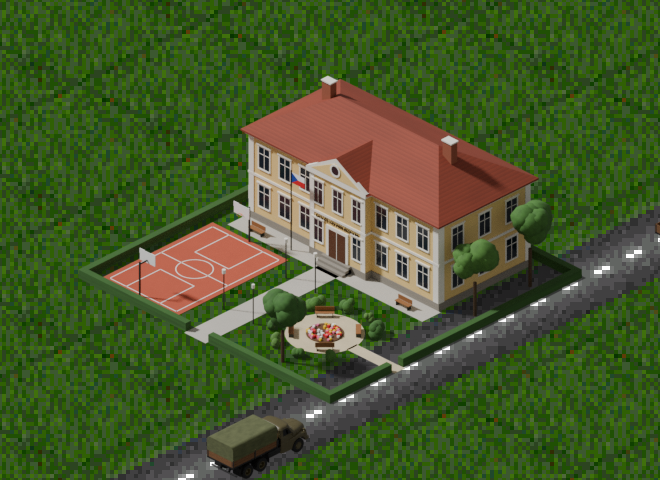
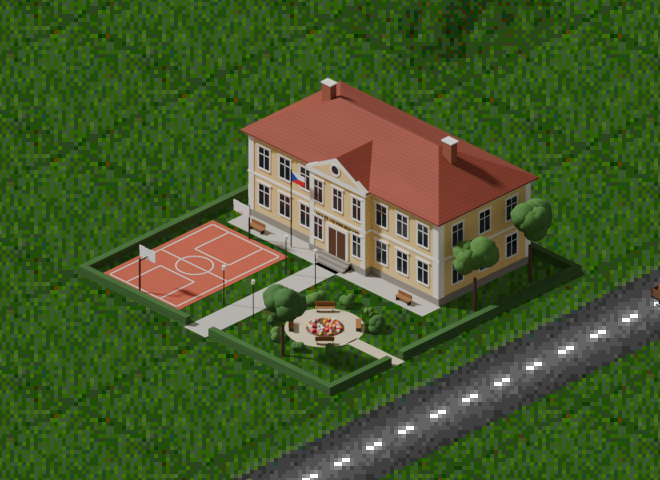
Nahledy ve hre na spravnem miste, odpoved pro hru
Zeme v okruhu zkusebni hry lezi ve vysce 16 a nahledy s tim nepocitaly,
budovy byly o pul policka niz (u automatu krovi na silnici). Novy
hra/nahled_ve_hre.py pocita s vyskou zeme, stahne obrazek na policko hry
256 x 124 a posune severni roh o 4 px jako hra. Nahledy gymnazia,
automatu a sochy jsou nove, fotka okruhu je v repu. Odpoved na zpravu od
hry: socha po stazeni nepresahuje, objekty prijdou ve tvaru hry.

Claude-Session: https://claude.ai/code/session_01P6zYdmMEQjTTZJyV6Qb8Ch

diff --git a/hra/nahled_ve_hre.py b/hra/nahled_ve_hre.py
@@ -1,0 +1,79 @@
+#!/usr/bin/env python3
+# -*- coding: utf-8 -*-
+# Nahled budov ve fotce ze zkusebni hry (silnicni okruh s Tatrami, priblizeni 4x) s polohou jako ve hre:
+# - zeme v okruhu lezi ve vysce 16 (dve urovne, auta tam maji z 16), dlazdice je proto o 4 * 16 = 64 px vys, nez
+#   by byla dole. Tuhle vysku jsem driv vynechaval a vsechny nahledy byly o pul policka niz (u automatu pak krovi
+#   lezlo na silnici, i kdyz ve hre nepresahuje).
+# - policko ve hre ma 256 x 124 px (render 256 x 128), obrazek se proto svisle stahne na 124/128 jako ve hre.
+# - severni roh rovne dlazdice lezi ve hre o 4 px vpravo od hranice pixelu, kam ho klade render.
+# Posledni dve veci podle zpravy od hry (zarovnani-budov/ZPRAVA-OD-HRY.md, skript hry openttd_gymnazium.py).
+#
+#   python3 nahled_ve_hre.py <vystup.png> <obrazek.png>@<x>,<y>[=popisek] ... [--vyrez L,T,R,B] [--zvetsit N]
+#
+# x, y je severni dlazdice budovy. Rohy pozemku se ctou z JSONu vedle obrazku; "stazeny": true znamena, ze obrazek
+# uz ma vysku hry a nestahuje se. Popisek se napise pod jizni roh pozemku. Vyrez je v pixelech fotky od severniho
+# rohu prvni budovy (vychozi -330,-150,330,330), zvetseni bez vyhlazovani (vychozi 2).
+# Dlazdice v okruhu: silnice vede po y = 12 a y = 18 (x 40 az 51) a po x = 40 a x = 51 (y 12 az 18), uvnitr je
+# trava; napr. (44,17) je primo u silnice, (45,16) o policko dal.
+import json, os, sys
+from PIL import Image, ImageDraw, ImageFont
+
+TU = os.path.dirname(os.path.abspath(__file__))
+FOTKA = os.path.join(TU, "fotka_okruh_v11.png")       # v3s_okruh_02.png ze zkousky v11, pohled vlevo -5440 nahore 2840
+VLEVO, NAHORE, Z_ZEME = -5440, 2840, 16
+SEVER_POSUN = 4
+RENDER_VYSKA, HRA_VYSKA = 128, 124
+PISMO = "/usr/share/fonts/truetype/dejavu/DejaVuSans-Bold.ttf"
+
+
+def sever_dlazdice(x, y):
+    """pixel fotky, kde lezi severni roh dlazdice (x, y) ve hre"""
+    return 128 * (y - x) - VLEVO + SEVER_POSUN, 64 * (x + y) - 4 * Z_ZEME - NAHORE
+
+
+def nacti(cesta):
+    """obrazek ve vysce hry a rohy pozemku na nem"""
+    im = Image.open(cesta).convert("RGBA")
+    info = json.load(open(os.path.splitext(cesta)[0] + ".json"))
+    rohy = {k: tuple(v) for k, v in info["rohy"].items()}
+    if not info.get("stazeny"):
+        k = HRA_VYSKA / RENDER_VYSKA
+        im = im.resize((im.width, round(im.height * k)), Image.LANCZOS)
+        rohy = {n: (v[0], v[1] * k) for n, v in rohy.items()}
+    return im, rohy
+
+
+def main(argv):
+    vystup, budovy, vyrez, zvetsit = argv[0], [], (-330, -150, 330, 330), 2
+    i = 1
+    while i < len(argv):
+        if argv[i] == "--vyrez":
+            vyrez = tuple(int(v) for v in argv[i + 1].split(",")); i += 2; continue
+        if argv[i] == "--zvetsit":
+            zvetsit = int(argv[i + 1]); i += 2; continue
+        cesta, _, zbytek = argv[i].partition("@")
+        misto, _, popisek = zbytek.partition("=")
+        budovy.append((cesta, tuple(int(v) for v in misto.split(",")), popisek)); i += 1
+    fotka = Image.open(FOTKA).convert("RGBA")
+    popisky = []
+    for cesta, (x, y), popisek in budovy:
+        im, rohy = nacti(cesta)
+        sx, sy = sever_dlazdice(x, y)
+        ox, oy = round(sx - rohy["sever"][0]), round(sy - rohy["sever"][1])
+        fotka.alpha_composite(im, (ox, oy))
+        if popisek:
+            popisky.append((popisek, ox + rohy["jih"][0], oy + rohy["jih"][1]))
+    x0, y0 = sever_dlazdice(*budovy[0][1])
+    L, T = x0 + vyrez[0], y0 + vyrez[1]
+    v = fotka.crop((L, T, x0 + vyrez[2], y0 + vyrez[3])).convert("RGB")
+    v = v.resize((v.width * zvetsit, v.height * zvetsit), Image.NEAREST)
+    d = ImageDraw.Draw(v); f = ImageFont.truetype(PISMO, 13 * zvetsit)
+    for text, px, py in popisky:
+        X, Y = (px - L) * zvetsit, (py - T) * zvetsit + 15 * zvetsit
+        d.text((X + 2, Y + 2), text, font=f, fill=(0, 0, 0), anchor="mm"); d.text((X, Y), text, font=f, fill=(255, 255, 255), anchor="mm")
+    v.save(vystup)
+    print(vystup, v.size)
+
+
+if __name__ == "__main__":
+    main(sys.argv[1:])

diff --git a/hra/README.md b/hra/README.md
@@ -87,6 +87,26 @@ Bez obrazu, jen výpisy (třeba `testv3s`), stačí `./openttd -vnull:ticks=200 
 a v `game_start.scr` příkaz, na konci `quit` není potřeba.
 `-G <číslo>` dá pokaždé stejnou mapu.
 
+## Náhled budov ve fotce ze hry
+
+`nahled_ve_hre.py` vloží obrázky budov do fotky okruhu ze zkoušky v11 (`fotka_okruh_v11.png`, přiblížení 4×)
+tam, kam by je postavila hra:
+
+```bash
+python3 hra/nahled_ve_hre.py socha/nahled_ve_hre.png "socha/socha_kamen_zin4.png@45,16=z kamene" "socha/socha_bronz_zin4.png@43,16=bronzová" --vyrez -202,-174,458,236
+```
+
+`@x,y` je severní dlaždice budovy, rohy pozemku se berou z JSONu vedle obrázku. Tři věci, bez kterých náhled lže:
+
+- **Země v okruhu leží ve výšce 16** (auta tam mají `z 16`), dlaždice je proto o 64 px výš. Do 1. 10. jsem to
+  vynechával a všechny náhledy (gymnázium, automat, socha) byly o půl políčka níž; u automatu pak křoví lezlo na
+  silnici, ve hře ne.
+- **Políčko ve hře má 256 × 124 px**, ne 256 × 128 jako render: obrázek se svisle stáhne na 124/128.
+- **Severní roh dlaždice leží ve hře o 4 px vpravo** od hranice pixelu, kam ho klade render.
+
+Poslední dvě věci jsou ze zprávy od hry (`zarovnani-budov/ZPRAVA-OD-HRY.md`). Silnice okruhu vede po y = 12 a 18
+(x 40 až 51) a po x = 40 a 51 (y 12 až 18), uvnitř je tráva; (44,17) je hned u silnice.
+
 ## Jak přeložit znova
 
 ```bash

diff --git a/hra/zarovnani-budov/ODPOVED-PRO-HRU.md b/hra/zarovnani-budov/ODPOVED-PRO-HRU.md
@@ -1,0 +1,14 @@
+# Odpověď pro hru (1. 10.)
+
+Díky, zpráva je jasná.
+
+- **JSON s rohy pozemku** budu dělat u každé budovy jako dosud. Socha Karla Máchy (`socha/`, 1 × 1, kamenná
+  a bronzová) ho má.
+- **Socha po stažení na 124/128 nepřečuhuje:** pod přední hranou ani do stran z ní nic neleží (změřeno na
+  staženém obrázku). Jen okraj stínu přesahuje nejvýš o 1 px v přiblížení 4× s alfou 4 z 255, tedy neviditelně.
+  Stín má socha jen 20 % černé (hráč chtěl mnohem méně stínů), automat a gymnázium 55 %.
+- **Posunutý náhled byla moje chyba.** V náhledech jsem nepočítal s tím, že země v okruhu zkušební hry leží ve
+  výšce 16, takže jsem všechno vkládal o 64 px (půl políčka) níž. Opraveno: náhledy gymnázia, automatu i sochy
+  jsou nové a dělá je `hra/nahled_ve_hre.py` (výška země, stažení na 124/128 a severní roh +4 px jako u vás).
+- **Objekty:** hráč je teď dělá. Přidám je do obrázků a hotové pošlu ve tvaru hry (`*_stazeny.png`, stažené na
+  124/128 stejně jako vaše verze) s JSONem `"stazeny": true`.
